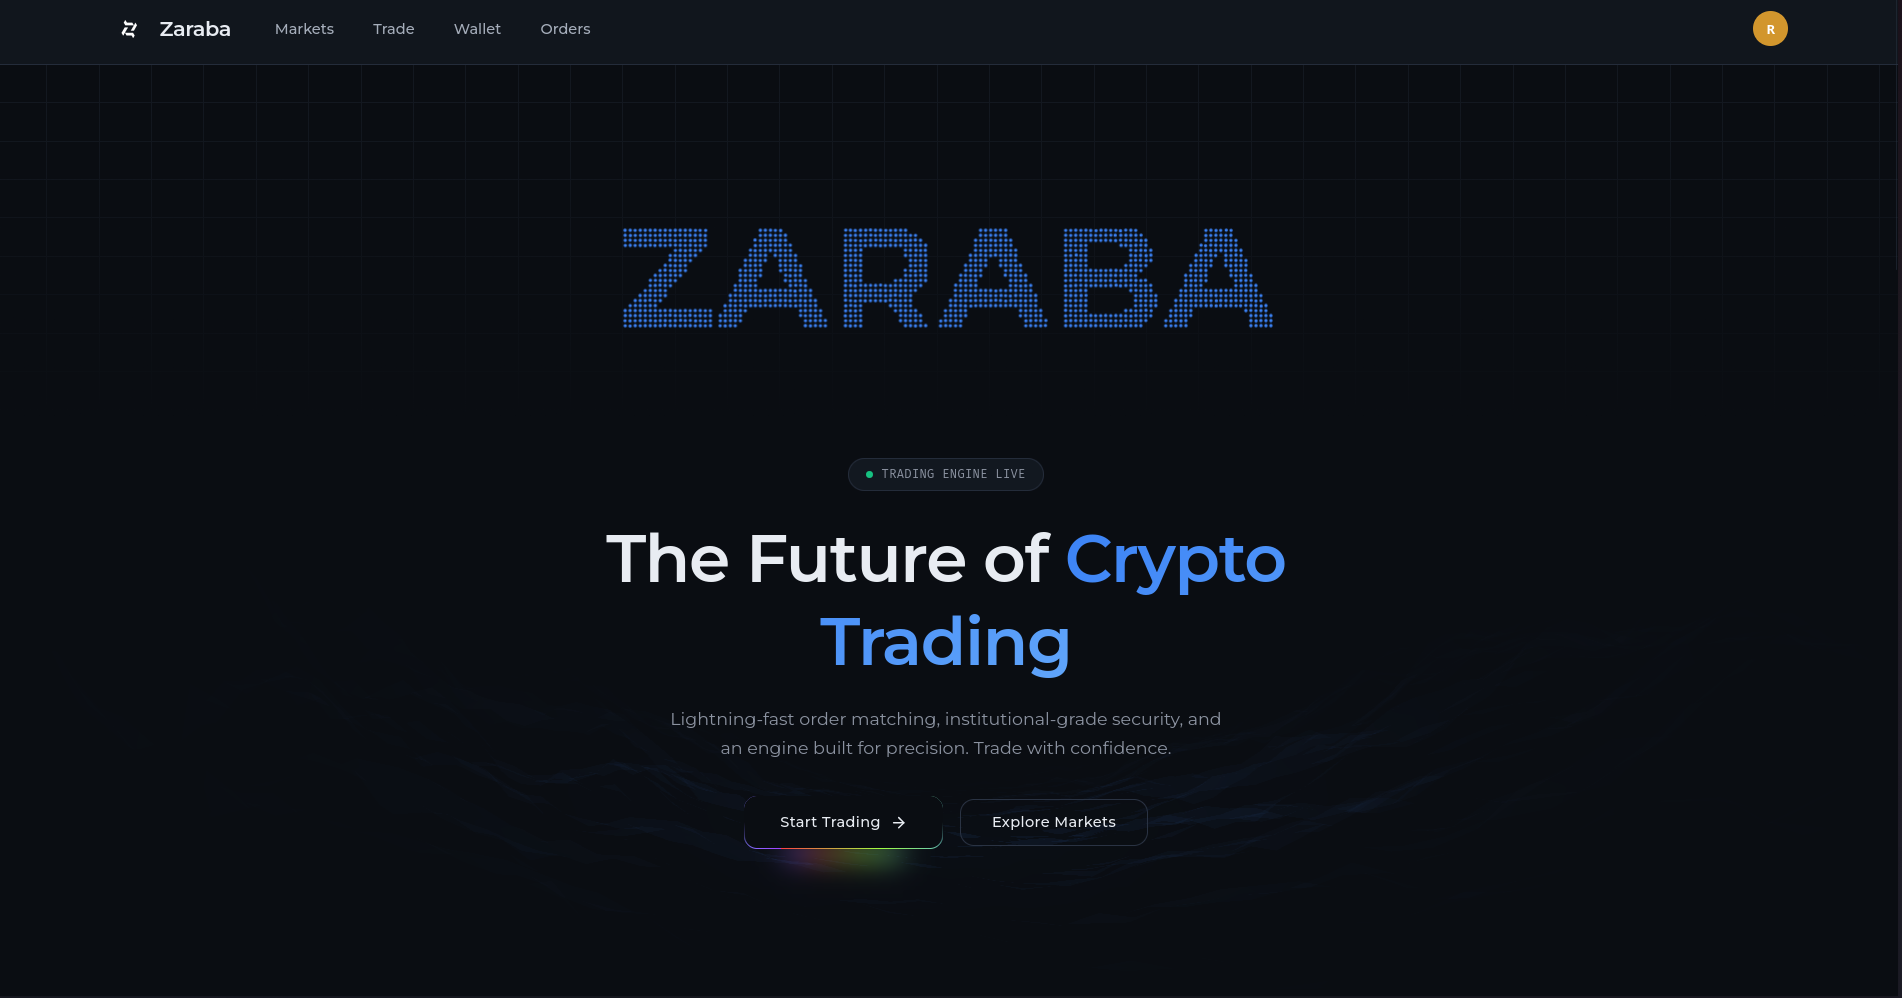
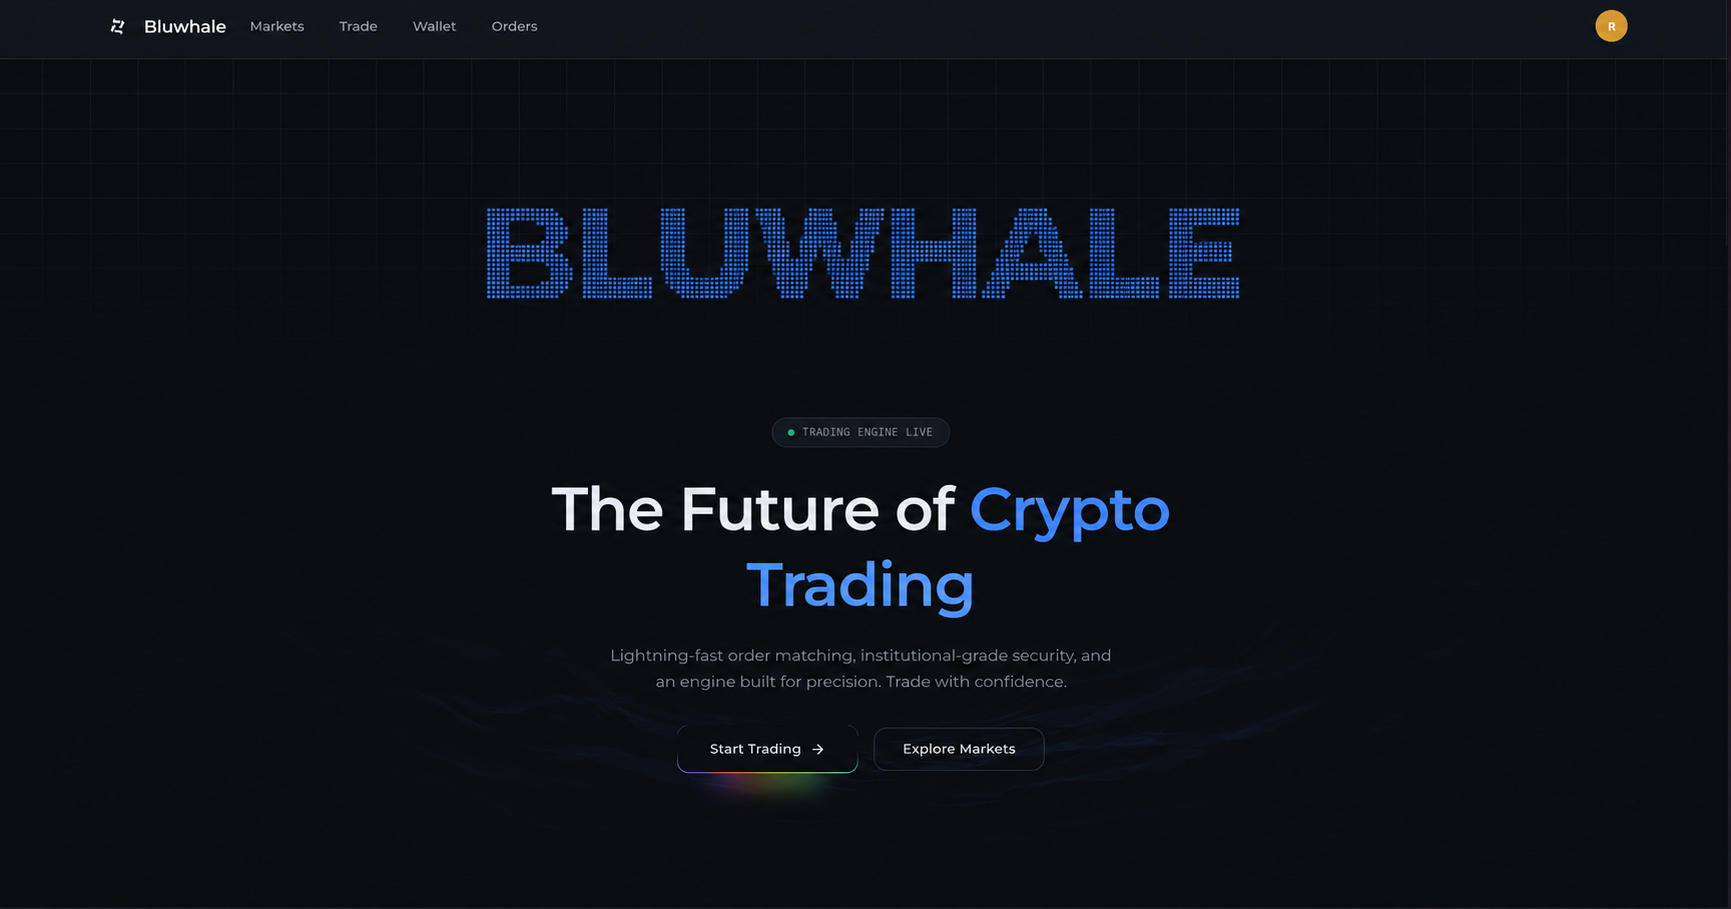
set landing page

diff --git a/ui/static/index.html b/ui/static/index.html
@@ -4,8 +4,8 @@
  <meta charset="utf-8">
  <meta name="viewport" content="width=device-width,initial-scale=1">
  <meta name="theme-color" content="#0b0f17">
- <meta name="description" content="Explore BluAI, cryptocurrencies, and North American and European stocks with Blu-Exchange.">
- <title>Markets · Blu-Exchange</title>
+ <meta name="description" content="Explore BluAI, cryptocurrencies, and North American and European stocks with Bluwhale.">
+ <title>Markets · Bluwhale</title>
  <link rel="icon" type="image/svg+xml" href="/static/images/brand.svg">
  <link rel="stylesheet" href="/static/css/main.css">
  <script type="module" src="/static/js/app.mjs"></script>
@@ -14,7 +14,7 @@
  <a class="skip-link" href="#main">Skip to content</a>
  <header class="site-header">
   <div class="header-inner">
-   <a class="brand" href="/" data-nav aria-label="Blu-Exchange home"><img src="/static/images/brand.svg" width="32" height="32" alt=""><span>Blu<span class="brand-light">-Exchange</span></span></a>
+   <a class="brand" href="/" data-nav aria-label="Bluwhale home"><img src="/static/images/brand.svg" width="32" height="32" alt=""><span>Blu<span class="brand-light">whale</span></span></a>
    <nav class="main-nav" aria-label="Main navigation">
     <a href="/markets" data-nav data-section="markets">Markets</a>
     <a href="/trade/bitcoin" data-nav data-section="trade">Trade <span class="tiny-label">PREVIEW</span></a>
@@ -24,10 +24,10 @@
    <div class="header-actions"><button class="feed-button" id="feed-button" title="View data sources"><span class="status-dot"></span><span id="feed-label">Connecting</span></button><span class="currency-label">USD</span><button class="icon-button" id="theme-toggle" aria-label="Switch to light theme"></button></div>
   </div>
  </header>
- <main id="main" tabindex="-1"><div class="loading-state"><div class="loader"></div><h1>Bringing your markets together</h1><p>Loading the Blu-Exchange market workspace…</p></div></main>
+ <main id="main" tabindex="-1"><div class="loading-state"><div class="loader"></div><h1>Bringing your markets together</h1><p>Loading the Bluwhale market workspace…</p></div></main>
  <noscript><p class="notice">Enable JavaScript to view market prices and use the trading preview.</p></noscript>
  <footer class="site-footer">
-  <a class="footer-brand" href="/" data-nav>Blu-Exchange<span>Markets, in perspective.</span></a>
+  <a class="footer-brand" href="/" data-nav>Bluwhale<span>Markets, in perspective.</span></a>
   <p>Market preview. Orders and portfolios are illustrative.</p>
   <button class="text-button" id="footer-sources">Data sources <span aria-hidden="true">↗</span></button>
  </footer>

diff --git a/ui/static/css/main.css b/ui/static/css/main.css
@@ -241,6 +241,29 @@ main {
   color:var(--accent);
   text-transform:uppercase
 }
+.brand-masthead {
+  position:relative;
+  display:flex;
+  justify-content:center;
+  padding:clamp(12px,3vw,32px) 12px;
+  margin:0 0 20px;
+  isolation:isolate
+}
+.brand-masthead::before {
+  content:"";
+  position:absolute;
+  inset:0;
+  z-index:-1;
+  pointer-events:none;
+  background-image:linear-gradient(rgba(119,162,255,.09) 1px,transparent 1px),linear-gradient(90deg,rgba(119,162,255,.09) 1px,transparent 1px);
+  background-size:32px 32px;
+  mask-image:radial-gradient(ellipse at center,#000 20%,transparent 72%)
+}
+.brand-masthead img {
+  display:block;
+  width:min(100%,840px);
+  height:auto
+}
 .hero {
   display:grid;
   grid-template-columns:1.2fr 1fr;

diff --git a/internal/web/server_test.go b/internal/web/server_test.go
@@ -18,7 +18,7 @@ func TestReadOnlyRoutes(t *testing.T) {
 	for _, path := range []string{"/", "/markets", "/watchlist", "/trade/bluai", "/trade/nvda", "/portfolio", "/orders", "/user/account", "/user/wallet"} {
 		r := httptest.NewRecorder()
 		handler.ServeHTTP(r, httptest.NewRequest("GET", path, nil))
-		if r.Code != 200 || !strings.Contains(r.Body.String(), "Blu-Exchange") || !strings.Contains(r.Header().Get("Content-Type"), "text/html") {
+		if r.Code != 200 || !strings.Contains(r.Body.String(), "Bluwhale") || !strings.Contains(r.Header().Get("Content-Type"), "text/html") {
 			t.Errorf("%s: %d", path, r.Code)
 		}
 		if r.Header().Get("Set-Cookie") != "" {

diff --git a/README.md b/README.md
@@ -1,6 +1,26 @@
 # Blu-Exchange
 
-A database-free crypto and stock market workspace, built with Go and embedded HTML, CSS, and JavaScript. Includes BluAI (Bluwhale), seven other cryptocurrencies, and selected North American and European companies.
+A database-free crypto and stock market workspace branded as **Bluwhale**, built with Go and embedded HTML, CSS, and JavaScript. Includes BluAI (Bluwhale), seven other cryptocurrencies, and selected North American and European companies.
+
+## Screen previews
+
+Rebranded design references for the Bluwhale website.
+
+### Landing page
+
+![Bluwhale landing page](assets/landingpage.png)
+
+### Markets
+
+![Bluwhale markets](assets/markets.png)
+
+### Trading terminal
+
+![Bluwhale trading terminal](assets/trade.png)
+
+### Wallet
+
+![Bluwhale wallet preview](assets/wallet.png)
 
 ## Run
 
@@ -85,7 +105,9 @@ Build with `go run . build` and run the resulting executable directly. `render.y
 
 ## Design and data references
 
-The layout uses Blu-Exchange's blue/charcoal identity with market-table, asset-category, and trading-workspace patterns informed by [Binance Markets](https://www.binance.com/en/markets/overview), [Crypto.com Exchange](https://crypto.com/exchange), [OKX Markets](https://www.okx.com/markets/prices), and [LocalCoinSwap](https://localcoinswap.com/).
+The layout uses Bluwhale's blue/charcoal identity with market-table, asset-category, and trading-workspace patterns informed by [Binance Markets](https://www.binance.com/en/markets/overview), [Crypto.com Exchange](https://crypto.com/exchange), [OKX Markets](https://www.okx.com/markets/prices), and [LocalCoinSwap](https://localcoinswap.com/).
+
+The landing page uses a lightweight dotted Bluwhale wordmark from `ui/static/images/bluwhale-wordmark.svg`. The rebranded images in `assets/` are design references; [image editing prompts](assets/branding-prompts.md) document their creation.
 
 Provider contracts: [Coinbase public product stats](https://docs.cdp.coinbase.com/api-reference/exchange-api/rest-api/products/get-product-stats), [Coinbase candles](https://docs.cdp.coinbase.com/api-reference/exchange-api/rest-api/products/get-product-candles), [Coinbase product list](https://docs.cdp.coinbase.com/api-reference/exchange-api/rest-api/products/get-all-known-trading-pairs), and [Coinbase rate limits](https://docs.cdp.coinbase.com/exchange/rest-api/rate-limits).
 

diff --git a/assets/branding-prompts.md b/assets/branding-prompts.md
@@ -1,0 +1,20 @@
+# Bluwhale image edits
+
+These images are rebranded design references, not screenshots of the current running application. They were edited with the built-in `image_gen` tool. The website uses embedded HTML/CSS and the code-native `ui/static/images/bluwhale-wordmark.svg` for its responsive landing wordmark.
+
+## Landing page
+
+Output: [`landingpage.png`](landingpage.png)
+
+Final prompt:
+
+> Use case: text-localization. Edit target: the provided landing-page screenshot. Replace the top-left navigation wordmark 'Zaraba' with exactly 'Bluwhale'. Replace the large centered blue dot-matrix wordmark 'ZARABA' with exactly 'BLUWHALE' (B L U W H A L E), retaining the same electric-blue dot-matrix texture, lettering height and centered placement; widen the lettering area as needed to fit the longer name. Preserve the existing dark background, subtle grid, original small white navigation symbol, all other navigation labels, headline, body copy, buttons and wave artwork. This is a precise rebranding edit, not a redesign. Preserve the complete screenshot framing and original wide aspect ratio. Do not add anything, crop, or create a collage. Output one edited image.
+
+## Other screens
+
+Outputs: [`markets.png`](markets.png), [`trade.png`](trade.png), [`wallet.png`](wallet.png)
+
+The following final prompt was applied separately to each original screenshot:
+
+> Use case: text-localization. This screenshot is the edit target. Replace only the top-left navigation brand text 'Zaraba' with exactly 'Bluwhale' (B l u w h a l e), matching the original white font, weight and baseline. Allow the brand text a little extra horizontal width while keeping a clean gap before Markets. Preserve the existing small white logo, all other navigation labels and icons, all page content, numbers, charts, controls, colors, spacing, screenshot framing and wide aspect ratio. This is a precise text-only branding edit. Do not redesign, crop, or add any elements. Return one full edited screenshot.
+
